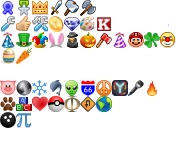
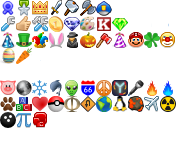
Add new flairs

diff --git a/tpflair/flair.py b/tpflair/flair.py
@@ -2,9 +2,11 @@
 FLAIR_DATA = [
     ("Developer2", "TagPro Developer", "-32px -16px"),
     ("Contributor", "Community Contributor", "0px -16px"),
+    ("Moderator", "Moderator", "-96px 0px"),
     ("Donator", "Level 1 Donor ($10)", "-16px -16px"),
     ("Donator2", "Level 2 Donor ($40)", "-48px -16px"),
     ("Donator3", "Level 3 Donor ($100)", "-64px -16px"),
+    ("Donator4", "Level 4 Donor ($200)", "-112px -16px"),
     ("Contest", "Community Contest Winner", "-80px -16px"),
     ("Monthly", "Monthly Leader Board Winner", "-32px 0px"),
     ("Weekly", "Weekly Leader Board Winner", "-16px 0px"),
@@ -27,21 +29,27 @@ FLAIR_DATA = [
     ("Easter3", "Racing For Carrots", "-16px -48px"),
     ("Bacon", "Bacon (6&#176;)", "0px -80px"),
     ("Moon", "Moon (11&#176;)", "-16px -80px"),
+    ("Penguin", "Penguin (17&#176;)", "-112px -96px"),
     ("Freezing", "Freezing (32&#176;)", "-32px -80px"),
     ("Dolphin", "Dolphin (42&#176;)", "-48px -80px"),
     ("Alien", "Alien (51&#176;)", "-64px -80px"),
     ("Route", "Road Sign (66&#176;)", "-80px -80px"),
     ("Peace", "Peace (69&#176;)", "-96px -80px"),
+    ("Magma", "Magma (79&#176;)", "-128px -96px"),
     ("Flux", "Flux Capacitor (88&#176;)", "-112px -80px"),
     ("Microphone", "Microphone (98&#176;)", "-128px -80px"),
     ("Boiling", "Boiling (100&#176;)", "-144px -80px"),
     ("Dalmatians", "Dalmatians (101&#176;)", "0px -96px"),
     ("ABC", "ABC (123&#176;)", "-16px -96px"),
+    ("Plane", "Plane (130&#176;)", "-144px -96px"),
     ("Love", "Love (143&#176;)", "-32px -96px"),
     ("Pokemon", "Pokemon (151&#176;)", "-48px -96px"),
     ("Phi", "Phi (162&#176;)", "-64px -96px"),
     ("UTurn", "U Turn (180&#176;)", "-80px -96px"),
     ("World", "World (196&#176;)", "-96px -96px"),
+    ("Boiling2", "Boiling 2 (212&#176;)", "-160px -80px"),
+    ("Uranium", "Uranium (238&#176;)", "-160px -96px"),
+    ("Boxing", "Boxing (276&#176;)", "-32px -112px"),
     ("Bowling", "Bowling (300&#176;)", "0px -112px"),
     ("Pi", "Pi (314&#176;)", "-16px -112px"),
 ]
